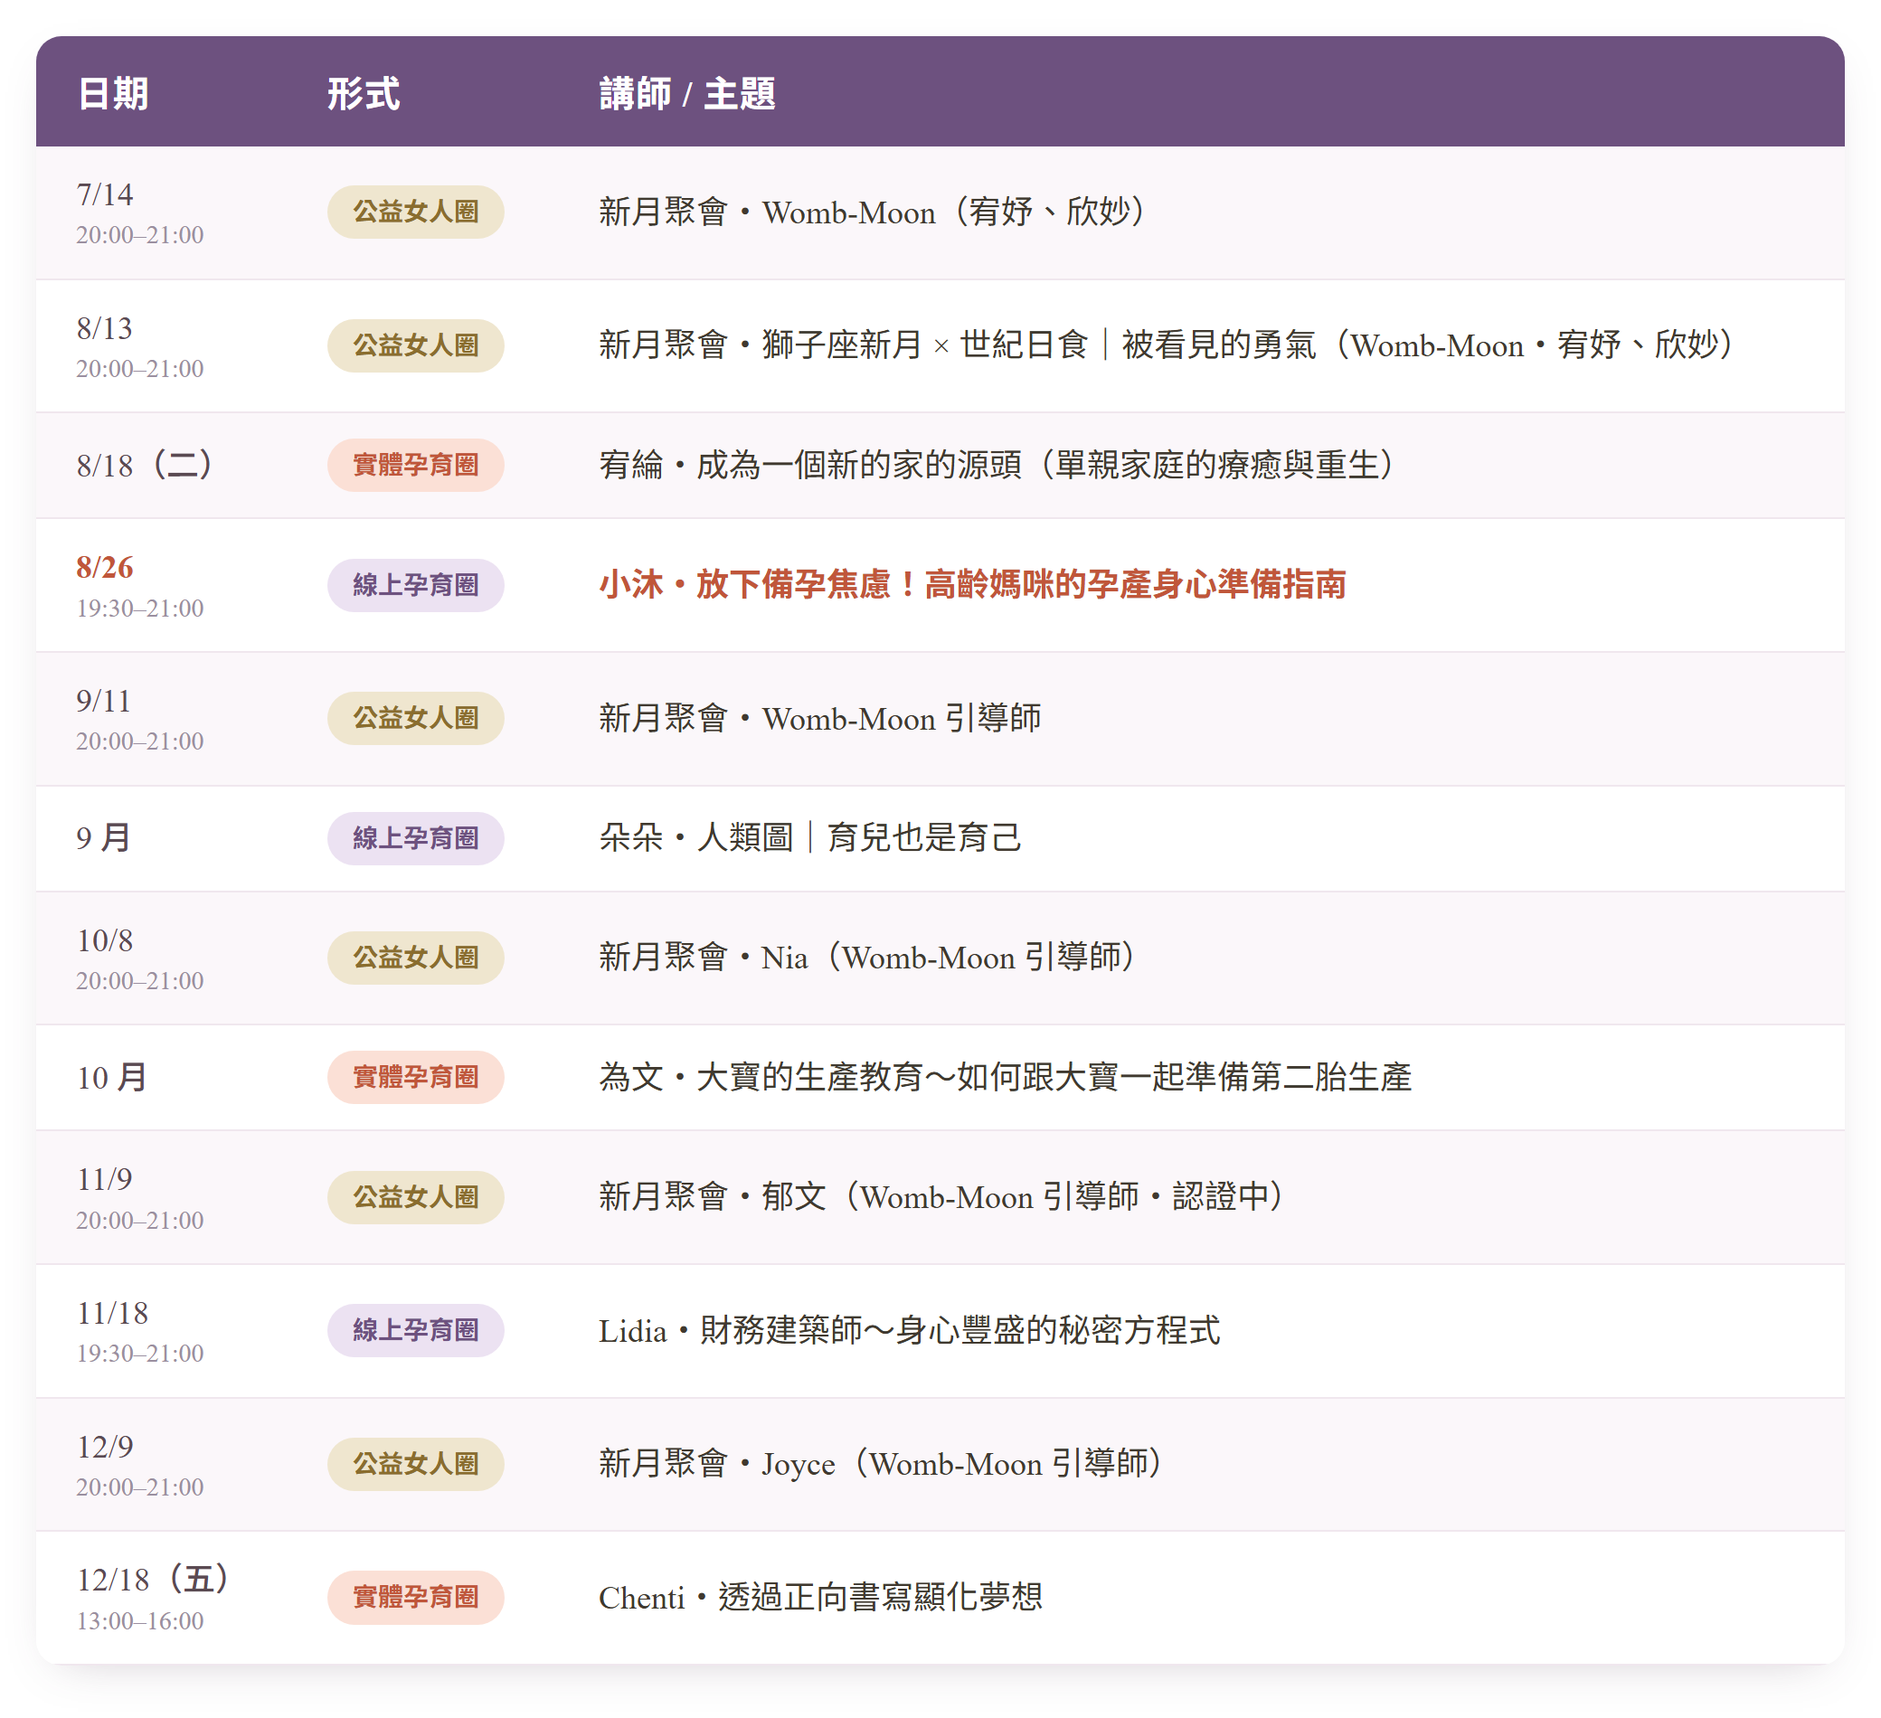
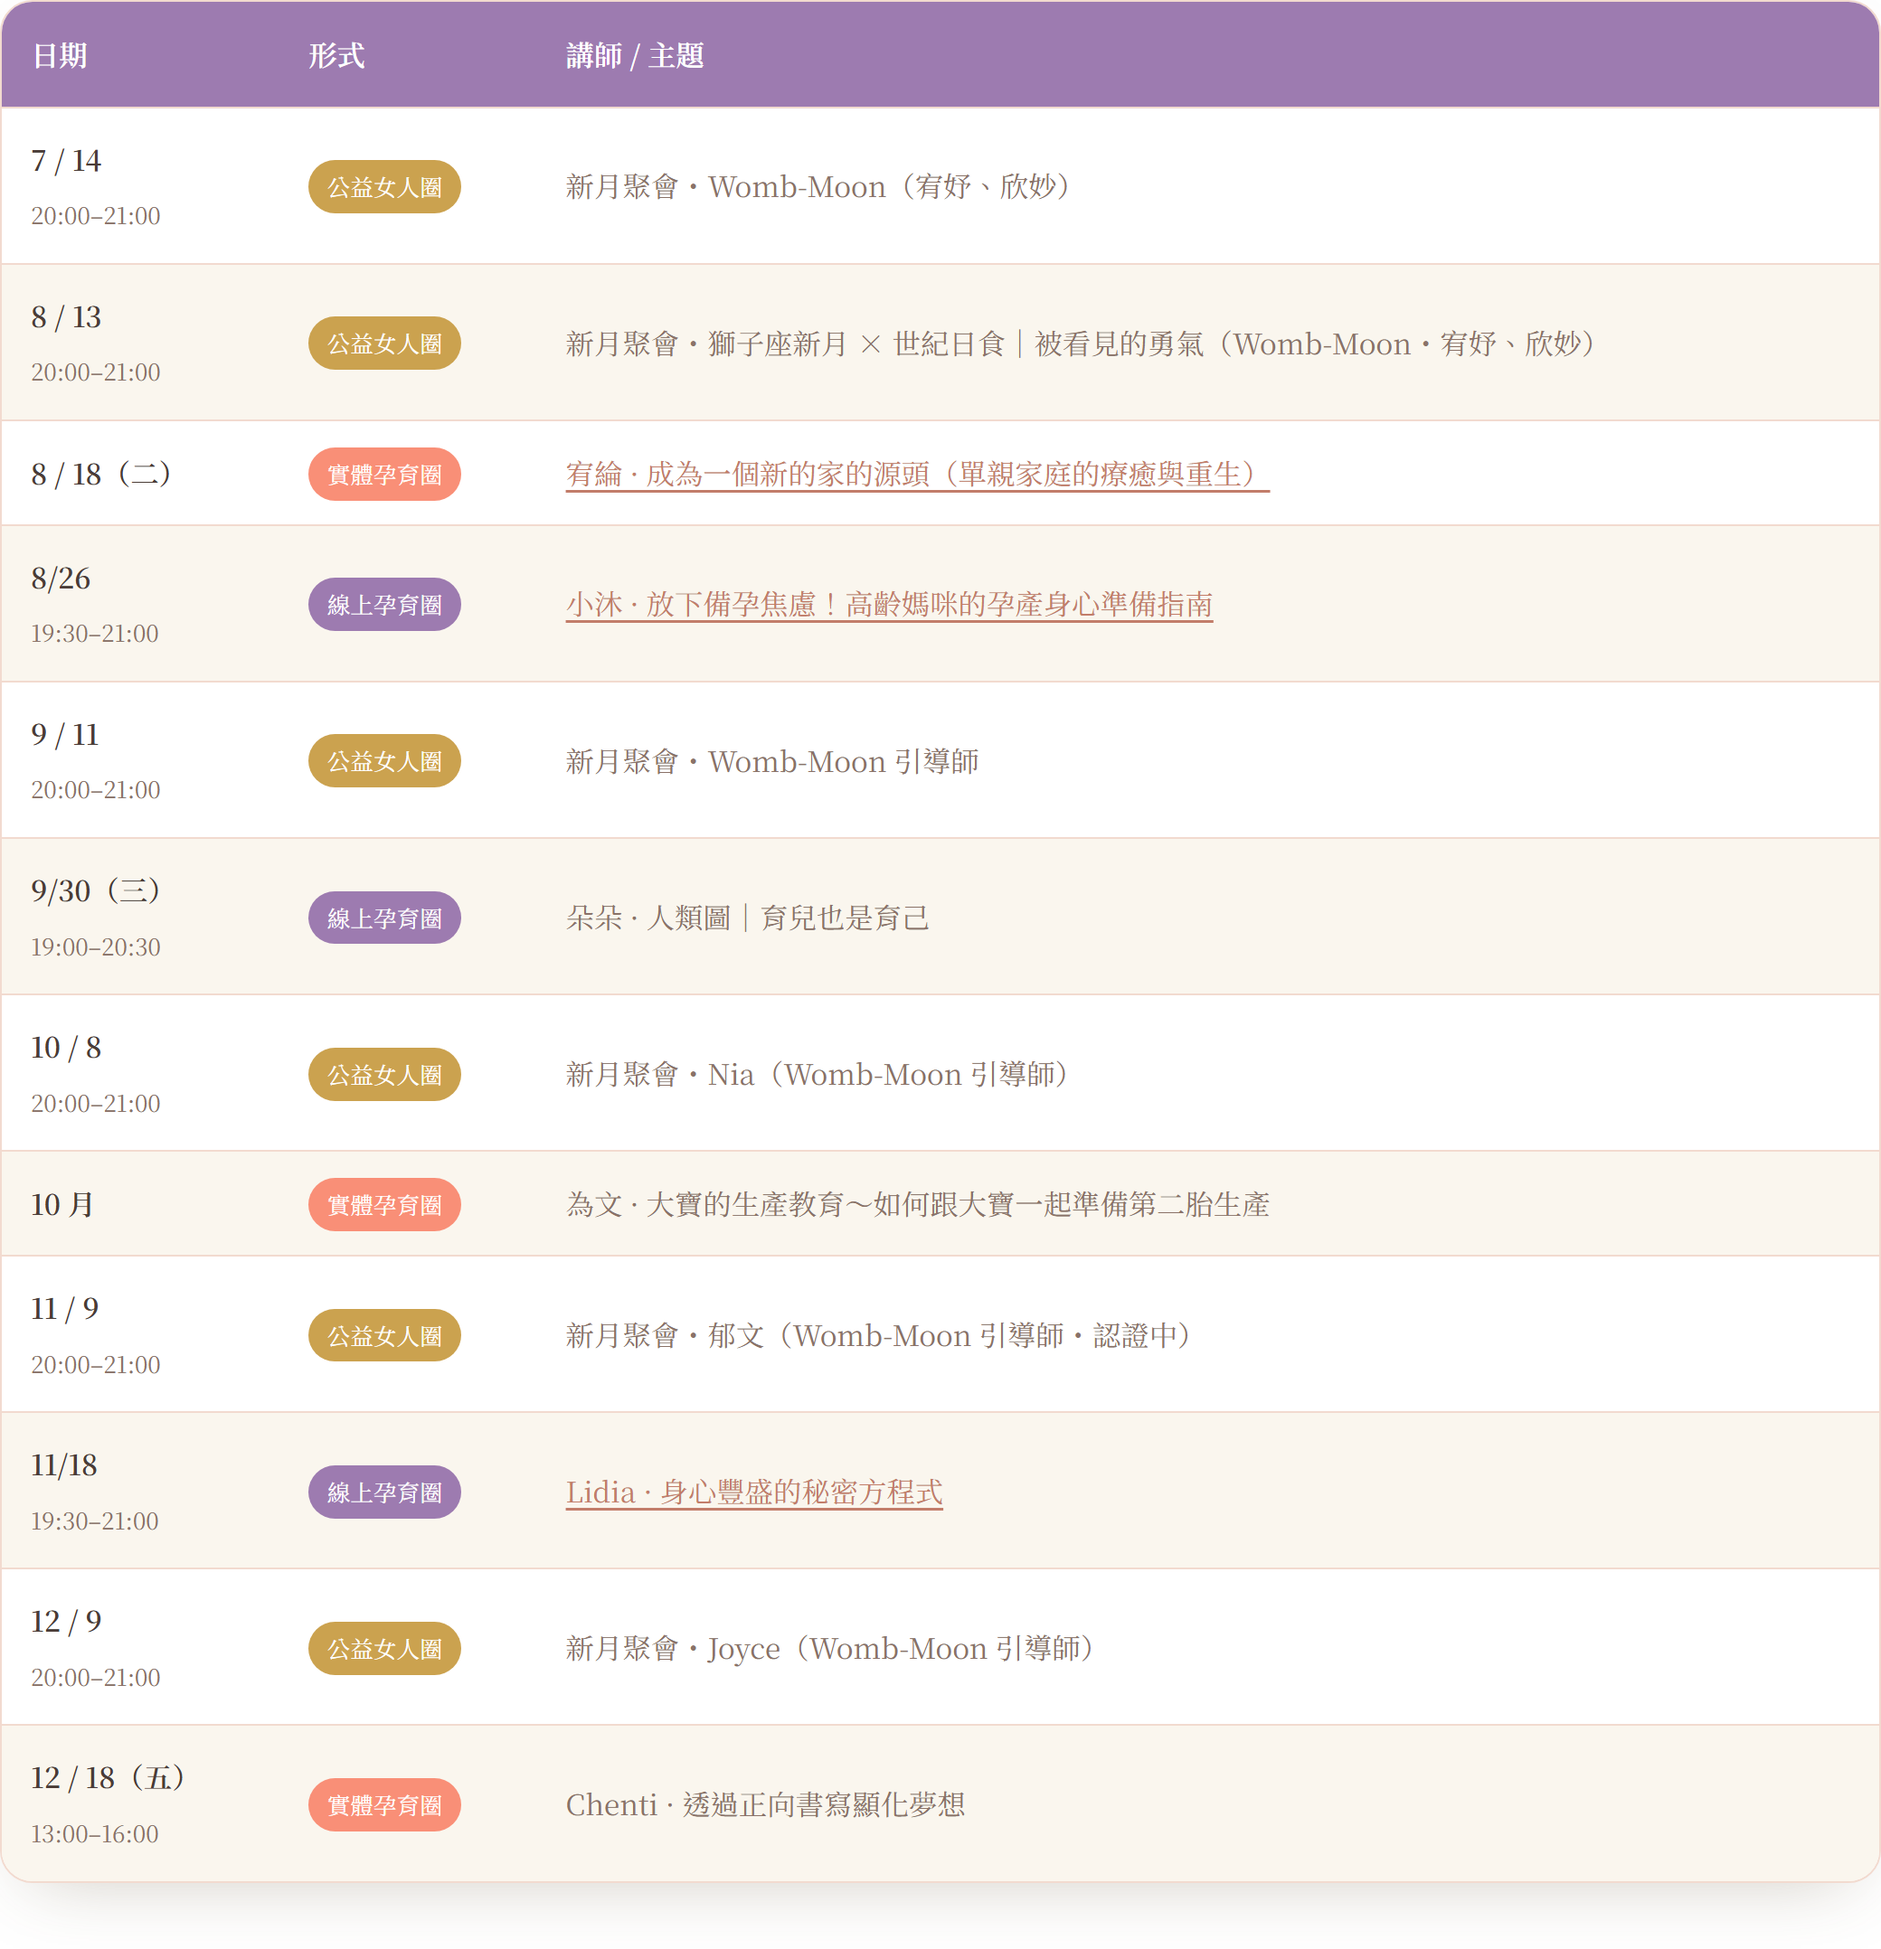
朵朵場次日期確定：9 月 → 9/30（三）19:00–20:30
更新首頁排程表與講師卡、小沐/Lidia 活動頁的系列列表，
並重出報名表單用的講師陣容圖與系列行程單圖。

Claude-Session: https://claude.ai/code/session_01V4GQQpX7qK5NhkB6znyVPq

diff --git a/index.html b/index.html
@@ -714,7 +714,7 @@
           <tr><td>8 / 18（二）</td><td><span class="pill p-onsite">實體孕育圈</span></td><td><a href="youlun/" style="color:var(--clay-deep);text-decoration:underline;text-underline-offset:3px">宥綸 · 成為一個新的家的源頭（單親家庭的療癒與重生）</a></td></tr>
           <tr><td>8/26<br><span style="font-weight:400;color:var(--ink-soft);font-size:.82em">19:30–21:00</span></td><td><span class="pill p-online">線上孕育圈</span></td><td><a href="xiaomu-0806.html" style="color:var(--clay-deep);text-decoration:underline;text-underline-offset:3px">小沐 · 放下備孕焦慮！高齡媽咪的孕產身心準備指南</a></td></tr>
           <tr><td>9 / 11<br><span style="font-weight:400;color:var(--ink-soft);font-size:.82em">20:00–21:00</span></td><td><span class="pill p-charity">公益女人圈</span></td><td>新月聚會・Womb-Moon 引導師</td></tr>
-          <tr><td>9 月</td><td><span class="pill p-online">線上孕育圈</span></td><td>朵朵 · 人類圖｜育兒也是育己</td></tr>
+          <tr><td>9/30（三）<br><span style="font-weight:400;color:var(--ink-soft);font-size:.82em">19:00–20:30</span></td><td><span class="pill p-online">線上孕育圈</span></td><td>朵朵 · 人類圖｜育兒也是育己</td></tr>
           <tr><td>10 / 8<br><span style="font-weight:400;color:var(--ink-soft);font-size:.82em">20:00–21:00</span></td><td><span class="pill p-charity">公益女人圈</span></td><td>新月聚會・Nia（Womb-Moon 引導師）</td></tr>
           <tr><td>10 月</td><td><span class="pill p-onsite">實體孕育圈</span></td><td>為文 · 大寶的生產教育～如何跟大寶一起準備第二胎生產</td></tr>
           <tr><td>11 / 9<br><span style="font-weight:400;color:var(--ink-soft);font-size:.82em">20:00–21:00</span></td><td><span class="pill p-charity">公益女人圈</span></td><td>新月聚會・郁文（Womb-Moon 引導師・認證中）</td></tr>
@@ -744,7 +744,7 @@
     <div class="speakers">
       <div class="sp"><div class="pic"><img src="assets/sp-youlun.jpg" alt="宥綸" style="object-position:center 22%"></div><h3>宥綸</h3><span class="when of">8/18 · 實體</span><p>成為一個新的家的源頭・單親家庭的療癒與重生</p></div>
       <div class="sp"><div class="pic"><img src="assets/sp-xiaomu.jpg" alt="小沐" style="object-position:center 20%"></div><h3>小沐 <span>Mumu</span></h3><span class="when on">8/26 · 線上</span><p>放下備孕焦慮・高齡媽咪的孕產身心準備指南</p></div>
-      <div class="sp"><div class="pic"><img src="assets/sp-duoduo.jpg" alt="朵朵" style="object-position:center 28%"></div><h3>朵朵</h3><span class="when on">9 月 · 線上</span><p>人類圖・育兒也是育己</p></div>
+      <div class="sp"><div class="pic"><img src="assets/sp-duoduo.jpg" alt="朵朵" style="object-position:center 28%"></div><h3>朵朵</h3><span class="when on">9/30 · 線上</span><p>人類圖・育兒也是育己</p></div>
       <div class="sp"><div class="pic"><img src="assets/sp-weiwen.jpg" alt="為文" style="object-position:center 26%"></div><h3>為文</h3><span class="when of">10 月 · 實體</span><p>大寶的生產教育～如何跟大寶一起準備第二胎生產</p></div>
       <div class="sp"><div class="pic"><img src="assets/sp-lidia.jpg" alt="Lidia" style="object-position:center 18%"></div><h3>Lidia</h3><span class="when on">11/18 · 線上</span><p>財務建築師・身心豐盛的秘密方程式</p></div>
       <div class="sp"><div class="pic"><img src="assets/sp-chenti.jpg" alt="Chenti" style="object-position:46% 26%"></div><h3>Chenti</h3><span class="when of">12/18 · 實體</span><p>透過正向書寫・顯化夢想</p></div>

diff --git a/lidia-1118.html b/lidia-1118.html
@@ -425,7 +425,7 @@
     <div class="series-list">
       <a class="srow" href="xiaomu-0806.html"><span class="d">8/6</span><span class="t"><b>小沐</b>・放下備孕焦慮<small>高齡媽咪的孕產身心準備指南 ・ 線上</small></span></a>
       <a class="srow" href="youlun/"><span class="d">8/18</span><span class="t"><b>宥綸</b>・成為一個新的家的源頭<small>單親家庭的療癒與重生 ・ 實體</small></span></a>
-      <div class="srow"><span class="d">9月</span><span class="t"><b>朵朵</b>・人類圖，育兒也是育己<small>線上</small></span></div>
+      <div class="srow"><span class="d">9/30</span><span class="t"><b>朵朵</b>・人類圖，育兒也是育己<small>線上</small></span></div>
       <div class="srow"><span class="d">10月</span><span class="t"><b>為文</b>・大寶的生產教育<small>如何跟大寶一起準備第二胎生產 ・ 實體</small></span></div>
       <div class="srow now"><span class="d">11/18</span><span class="t"><b>Lidia</b>・身心豐盛的秘密方程式<small>本場 ・ 線上</small></span></div>
       <div class="srow"><span class="d">12/18</span><span class="t"><b>Chenti</b>・透過正向書寫顯化夢想<small>實體</small></span></div>

diff --git a/xiaomu-0806.html b/xiaomu-0806.html
@@ -374,7 +374,7 @@
     </div>
     <div class="series-list">
       <a class="srow" href="youlun/"><span class="d">8/18</span><span class="t"><b>宥綸</b>・成為一個新的家的源頭<small>單親家庭的療癒與重生 ・ 實體</small></span></a>
-      <div class="srow"><span class="d">9月</span><span class="t"><b>朵朵</b>・人類圖，育兒也是育己<small>線上</small></span></div>
+      <div class="srow"><span class="d">9/30</span><span class="t"><b>朵朵</b>・人類圖，育兒也是育己<small>線上</small></span></div>
       <div class="srow"><span class="d">10月</span><span class="t"><b>為文</b>・大寶的生產教育<small>如何跟大寶一起準備第二胎生產 ・ 實體</small></span></div>
       <div class="srow"><span class="d">11/18</span><span class="t"><b>Lidia</b>・財務建築師～身心豐盛的秘密方程式<small>線上</small></span></div>
       <div class="srow"><span class="d">12/18</span><span class="t"><b>Chenti</b>・透過正向書寫顯化夢想<small>實體</small></span></div>
